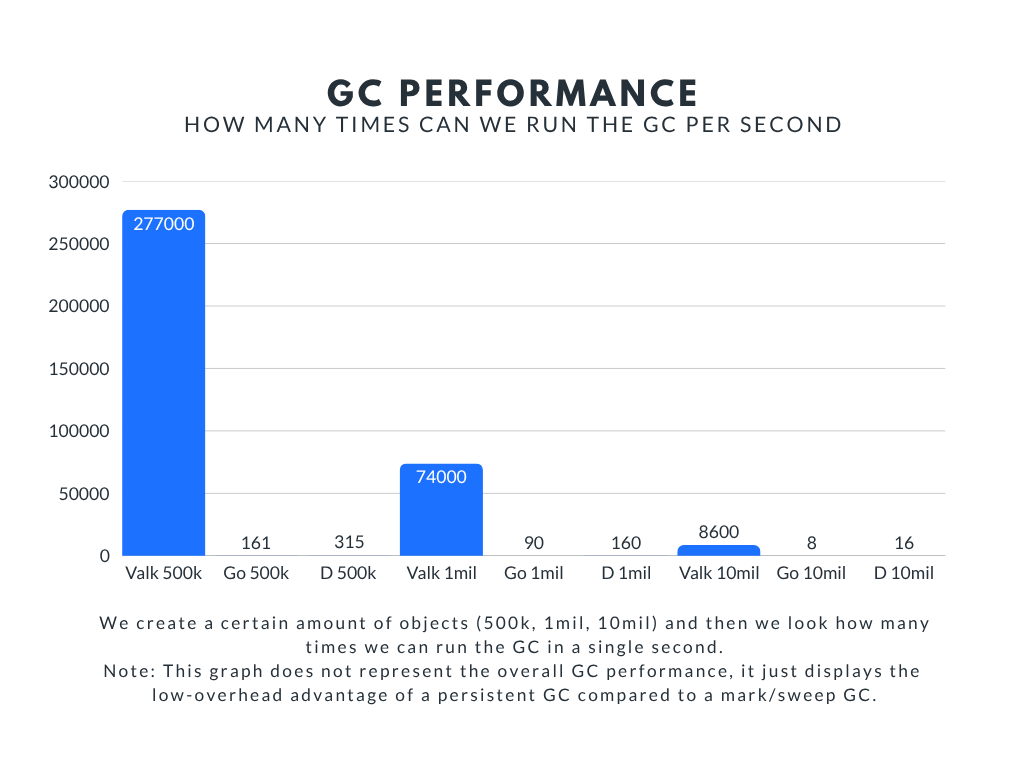
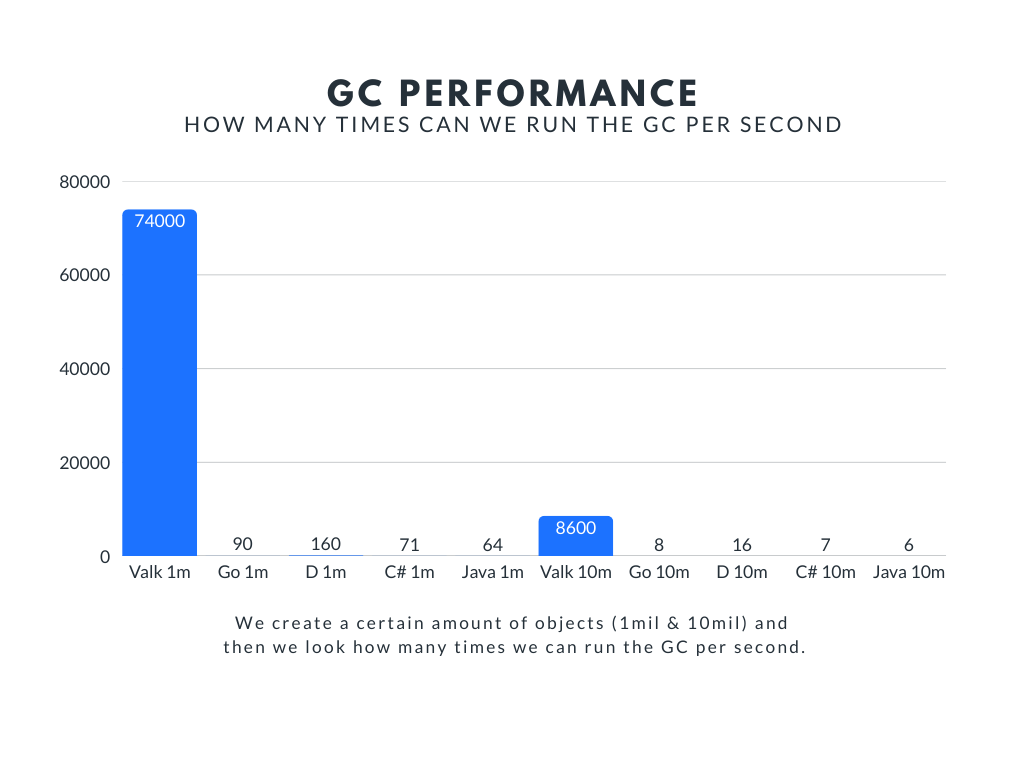
update benchmarks java/c#

diff --git a/examples/bench/binary-tree/main.cs b/examples/bench/binary-tree/main.cs
@@ -1,0 +1,95 @@
+
+using System;
+using System.Diagnostics;
+using System.Threading.Tasks;
+
+class BinaryTrees
+{
+    class TreeNode
+    {
+        public TreeNode left;
+        public TreeNode right;
+
+        TreeNode(TreeNode left = null, TreeNode right = null)
+        {
+            this.left = left;
+            this.right = right;
+        }
+
+        internal static TreeNode Create(int d)
+        {
+            return d == 0 ? new TreeNode()
+                          : new TreeNode(Create(d - 1), Create(d - 1));
+        }
+
+        internal int Check()
+        {
+            int c = 1;
+            if (right != null)
+            {
+                c += right.Check();
+            }
+            if (left != null)
+            {
+                c += left.Check();
+            }
+            return c;
+        }
+
+        internal void Hold() { }
+    }
+
+    const int MinDepth = 4;
+    public static void Main(string[] args)
+    {
+        var maxDepth = args.Length == 0 ? 10
+            : Math.Max(MinDepth + 2, int.Parse(args[0]));
+
+        var stretchDepth = maxDepth + 1;
+        Console.WriteLine($"stretch tree of depth {stretchDepth}\t check: {TreeNode.Create(stretchDepth).Check()}");
+
+        var longLivedTree = TreeNode.Create(maxDepth);
+        var nResults = (maxDepth - MinDepth) / 2 + 1;
+        for (int i = 0; i < nResults; i++)
+        {
+            var depth = i * 2 + MinDepth;
+            var n = (1 << maxDepth - depth + MinDepth);
+
+            var check = 0;
+            for (int j = 0; j < n; j++)
+            {
+                check += TreeNode.Create(depth).Check();
+            }
+
+            Console.WriteLine($"{n}\t trees of depth {depth}\t check: {check}");
+        }
+
+        Console.WriteLine($"long lived tree of depth {maxDepth}\t check: {longLivedTree.Check()}");
+
+        var process = Process.GetCurrentProcess();
+
+        long peakWS = process.PeakWorkingSet64;
+        long peakPriv = process.PeakVirtualMemorySize64;  // ← alternative (virtual)
+
+        Console.WriteLine();
+        Console.WriteLine("Peak physical memory (Working Set) : "
+            + FormatBytes(peakWS));
+        Console.WriteLine("Peak virtual memory                 : "
+            + FormatBytes(peakPriv));
+        Console.WriteLine();
+        Console.WriteLine("(for comparison — current values)");
+        Console.WriteLine("Current Working Set                 : "
+            + FormatBytes(process.WorkingSet64));
+        Console.WriteLine("Current Private Bytes               : "
+            + FormatBytes(process.PrivateMemorySize64));
+    }
+    static string FormatBytes(long bytes)
+    {
+        string[] suf = { "B", "KB", "MB", "GB", "TB", "PB", "EB" };
+        if (bytes == 0) return "0 " + suf[0];
+        long bytesAbs = Math.Abs(bytes);
+        int place = Convert.ToInt32(Math.Floor(Math.Log(bytesAbs, 1024)));
+        double num = Math.Round(bytesAbs / Math.Pow(1024, place), 2);
+        return (Math.Sign(bytes) * num).ToString() + " " + suf[place];
+    }
+}

diff --git a/examples/bench/gc-overhead/main.cs b/examples/bench/gc-overhead/main.cs
@@ -1,0 +1,96 @@
+
+using System;
+using System.Diagnostics;
+using System.Threading.Tasks;
+
+class GcOverhead
+{
+    class Node
+    {
+        public Node next;
+
+        Node(Node next = null)
+        {
+            this.next = next;
+        }
+
+        internal static Node Create(int amount)
+        {
+            int i = 0;
+            Node prev = new Node();
+            Node first = prev;
+            while (i++ < amount)
+            {
+                Node n = new Node();
+                prev.next = n;
+                prev = n;
+            }
+            return first;
+        }
+
+        internal int Check()
+        {
+            Node n = this;
+            int c = 0;
+            while (n != null)
+            {
+                n = n.next;
+                c++;
+            }
+
+            return c;
+        }
+
+        internal void Hold() { }
+    }
+
+    const int MinDepth = 4;
+    public static void Main(string[] args)
+    {
+        int repeat = 50;
+        int object_count = 1_000_000;
+        Node list = Node.Create(object_count);
+
+        var watch = System.Diagnostics.Stopwatch.StartNew();
+        int count = 0;
+        while (count < repeat)
+        {
+            GC.Collect();
+            count++;
+        }
+
+        var ms = watch.ElapsedMilliseconds + 1;
+
+        Console.WriteLine($"> Finished {count} collections in {ms}ms.");
+        Console.WriteLine($"> Collects per second: " + (repeat * 1000 / ms));
+        Console.WriteLine($"> Verify: " + ((list.Check() == object_count + 1) ? "OK" : "FAIL"));
+
+        var process = Process.GetCurrentProcess();
+
+        long peakWS = process.PeakWorkingSet64;
+        long peakPriv = process.PeakVirtualMemorySize64;  // ← alternative (virtual)
+
+        Console.WriteLine();
+        Console.WriteLine("Peak physical memory (Working Set) : "
+            + FormatBytes(peakWS));
+        Console.WriteLine("Peak virtual memory                 : "
+            + FormatBytes(peakPriv));
+        Console.WriteLine();
+        Console.WriteLine("(for comparison — current values)");
+        Console.WriteLine("Current Working Set                 : "
+            + FormatBytes(process.WorkingSet64));
+        Console.WriteLine("Current Private Bytes               : "
+            + FormatBytes(process.PrivateMemorySize64));
+
+        // Thread.Sleep(10000);
+    }
+    static string FormatBytes(long bytes)
+    {
+        string[] suf = { "B", "KB", "MB", "GB", "TB", "PB", "EB" };
+        if (bytes == 0) return "0 " + suf[0];
+        long bytesAbs = Math.Abs(bytes);
+        int place = Convert.ToInt32(Math.Floor(Math.Log(bytesAbs, 1024)));
+        double num = Math.Round(bytesAbs / Math.Pow(1024, place), 2);
+        return (Math.Sign(bytes) * num).ToString() + " " + suf[place];
+    }
+}

diff --git a/examples/bench/binary-tree/main.java b/examples/bench/binary-tree/main.java
@@ -1,0 +1,50 @@
+
+class app {
+
+  private static final int minDepth = 4;
+
+  public static void main(String[] args) {
+    final var n = args.length > 0 ? Integer.parseInt(args[0]) : 4;
+    final var maxDepth = (minDepth + 2 > n) ? minDepth + 2 : n;
+    final var stretchDepth = maxDepth + 1;
+    var check = (TreeNode.bottomUpTree(stretchDepth)).itemCheck();
+    System.out.println("stretch tree of depth " + stretchDepth + "\t check: " + check);
+
+    final var longLivedTree = TreeNode.bottomUpTree(maxDepth);
+
+    for (int depth = minDepth; depth <= maxDepth; depth += 2) {
+      final var iterations = 1 << (maxDepth - depth + minDepth);
+      check = 0;
+
+      for (int i = 1; i <= iterations; i++) {
+        check += (TreeNode.bottomUpTree(depth)).itemCheck();
+      }
+      System.out.println(iterations + "\t trees of depth " + depth + "\t check: " + check);
+    }
+    System.out.println(
+        "long lived tree of depth " + maxDepth + "\t check: " + longLivedTree.itemCheck());
+  }
+
+  private static class TreeNode {
+    private TreeNode left, right;
+
+    private static TreeNode bottomUpTree(int depth) {
+      if (depth > 0) {
+        return new TreeNode(bottomUpTree(depth - 1), bottomUpTree(depth - 1));
+      } else {
+        return new TreeNode(null, null);
+      }
+    }
+
+    TreeNode(TreeNode left, TreeNode right) {
+      this.left = left;
+      this.right = right;
+    }
+
+    private int itemCheck() {
+      // if necessary deallocate here
+      if (left == null) return 1;
+      else return 1 + left.itemCheck() + right.itemCheck();
+    }
+  }
+}

diff --git a/examples/bench/gc-overhead/main.java b/examples/bench/gc-overhead/main.java
@@ -1,0 +1,53 @@
+
+class app {
+
+	public static void main(String[] args) {
+
+		var repeat = 50;
+		var object_count = 1_000_000;
+		var list = Node.create(object_count);
+
+		long startTime = System.nanoTime();
+		var count = 0;
+		while (count < repeat) {
+			System.gc();
+			count++;
+		}
+		long endTime = System.nanoTime();
+		long ms = (endTime - startTime) / 1000000 + 1;
+
+		System.out.println("> Finished " + count + " collections in " + ms + "ms.");
+		System.out.println("> Collects per second: " + (repeat * 1000 / ms));
+		System.out.println("> Verify: " + ((list.verify() == object_count + 1) ? "OK" : "FAIL"));
+	}
+
+	private static class Node {
+		private Node next;
+
+		private static Node create(int amount) {
+			var i = 0;
+			var prev = new Node(null);
+			var first = prev;
+			while (i++ < amount) {
+				var n = new Node(null);
+				prev.next = n;
+				prev = n;
+			}
+			return first;
+		}
+
+		Node(Node next) {
+			this.next = next;
+		}
+
+		private int verify() {
+			var n = this;
+			var c = 0;
+			while (n != null) {
+				n = n.next;
+				c++;
+			}
+			return c;
+		}
+	}
+}
